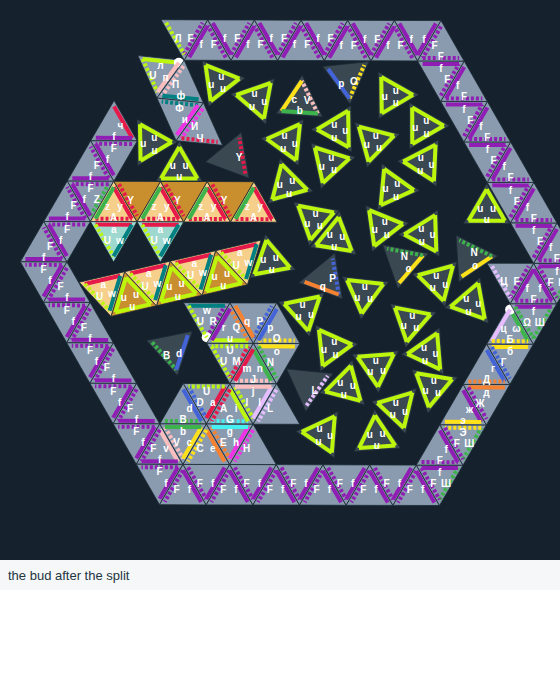
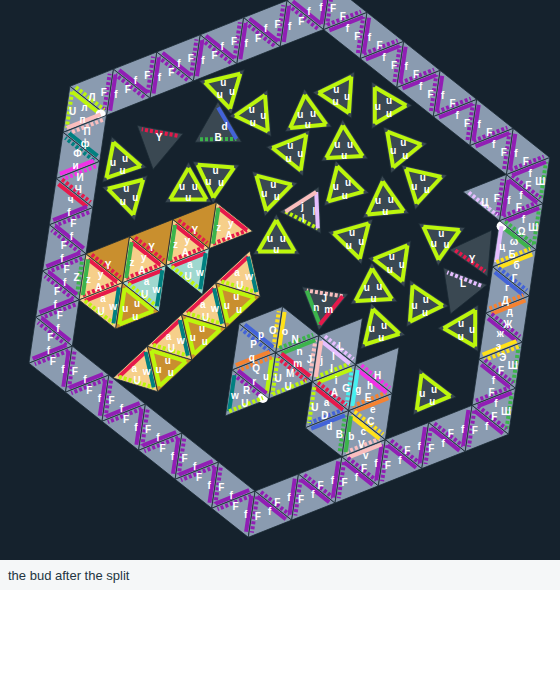
Records: capability checks (24 of 24 pass), a bud that lives alone 4 of 4, cells and live back to 4 of 4; picture; NEXT handoff and pitfalls (food in a kit site, narrow kit sites, supply races); AGENTS mentions tri/check.js
Claude-Session: https://claude.ai/code/session_01Ya3Dn6a9pNsW3KfKc7bRKZ

diff --git a/tri/check.js b/tri/check.js
@@ -2,7 +2,7 @@
 // Capability checks: one line per capability that ROADMAP's module table marks as working (plus partial ones, which
 // report but do not fail). Each check runs an existing demo (tri/demos.js, pictures off) on fixed seeds and reads the
 // demo's own last report line; a capability claimed "N of 4 worlds" needs that many seeds to pass.
-//   node tri/check.js [name ...]     (names: the `id` column; default all; at most 4 processes; about 7 minutes)
+//   node tri/check.js [name ...]     (names: the `id` column; default all; at most 4 processes; about 8 minutes)
 // Exit code 1 if a working capability fails.
 const {spawn}=require('child_process'),path=require('path');
 const num=(L,re)=>{const m=L.match(re);return m?+m[1]:NaN;};

diff --git a/docs/NEXT.md b/docs/NEXT.md
@@ -1,37 +1,25 @@
 # Next instance: start here
 
-## Current slice (autorun 20261001-2006-plywood-harden, 2026-10-01)
-- **Goal:** a capability check (`tri/check.js`) that guards every working module of ROADMAP in one command, and the
-  `split o` pocket stall diagnosed (and fixed if a kit/glue/supply fix exists), so the offspring that lives alone is
-  built on a verified base.
-- **Acceptance:** (1) `node tri/check.js` prints one PASS/FAIL line per working capability (ROADMAP module table),
-  pass conditions read from the world, all pass, wall time about 10 minutes or less with at most 4 processes;
-  (2) `node tri/demos.js split k 200000 runs/sjk o` with an end-of-run report of missing pocket kit types: the stall in
-  seeds 2 and 3 explained, and `split o` at 3 of 4 worlds or better, or the cause recorded with the next fix.
-- **Stop boundary:** no core changes, no new capabilities (no grown bud pair, no programmable synthesis). Budget:
-  about 3 `split o` batches of 4 worlds and one check run per fix.
-- **Approach:** check.js spawns the existing demos (one source of truth for setups) with pictures off (`TRI_NOPIC=1`;
-  every picture starts a Chromium) and reads each demo's own report lines; a pass condition per capability. A
-  separate copy of each world's setup in check.js was rejected (two places to keep in step).
+State on 2026-10-01 (after autorun run 20261001-2006, harden). Read AGENTS.md first (rules of work), then this file.
 
-State on 2026-10-01 (after autorun run 20261001-1806). Read AGENTS.md first (rules of work), then this file.
-
-**Handoff status (autorun run 20261001-1806).** Working tree clean; everything committed on branch
-`claude/autorun-20261001-1806` and merged into `main`. No simulations running. `node tri/test.js`: 20 tests pass. Runs
-live in `runs/` (not committed); regenerate with the commands below.
-**Done this run:** the `split o` batch with the lock-signal deafness rule (sim.js `_deaf`), then one retune (3 kit
-parts per organelle type, was 2). Result: 2 of 4 worlds run the whole chain (split, both doors shut, 42-47 imports, 16
-casts, a new `aaaa` copy in the bud); see INNOVATIONS (newest entry) and `docs/pictures/split_alone.png`. The cap and
-genome variants still work. A batch takes about 2 minutes per world here (not 1.5 h).
-**Open problem:** in the other 2 worlds (seeds 2 and 3) the bud's pocket stops at 14-15 of 16 cells with the doorway
-open, so it never splits; 3 parts per type did not fix it, so it is probably not supply. Not yet diagnosed: TRI_RESUME
-does not work for `split` (the demo re-places the prepared parts and the food after `createWorld` has loaded the
-saved state, so the resumed world is scrambled). **Exact next step:** add an end-of-run report to demo `split` (extra
-`o`) listing each kit type missing from the bud's pocket and where its copies are (bonded in D/P, free in D/P/out),
-rerun seeds 2 and 3 (`node tri/demos.js split 2 200000 runs/sj2 o`), look at the pocket zoom and decide: an enclosed
-site (a design fix in the organelle kit), a part stuck on a wrong partner (glue fix), or parts that cannot reach D.
-The demo's `outside=` count (flood fill on a 0.25 grid) can leak through wall
-gaps between sample points: treat it as rough.
+**Handoff status (autorun run 20261001-2006).** Working tree clean; everything committed on branch
+`claude/autorun-20261001-2006` and merged into `main`. No simulations running. `node tri/test.js`: 20 tests pass;
+`node tri/check.js`: 24 of 24 checks pass in 467 s (4 processes). No current slice: the next run starts a new one.
+**Done this run (slice: capability checks and the `split o` stall; acceptance met):**
+- `tri/check.js`: one PASS/FAIL line per working capability of ROADMAP (24 checks with two controls; multi-world
+  claims run seeds 1-4 and need 3). It spawns the existing demos with `TRI_NOPIC=1` (no pictures) and reads each
+  demo's last report line, so setups live only in demos.js. Add a check for every new working capability.
+- `split o` (a bud that lives alone): 4 of 4 worlds (was 2 of 4). An end-of-run report lists missing pocket cells and
+  where their copies are. Causes found: a yolk blank `uuu` stuck in the last caster site (fix: no `uuu` inside the
+  parent; the bud imports them after the split), then a narrow site (a kit cell with a side on the bud's wall; fix:
+  `budPair` picks the organelle placement with the fewest wall-touching kit cells, after kit risk).
+- The first check run found two older capabilities below their record: `cells` 2 of 4 (the founder's first dock lost
+  the race with the membrane root: now 24 dockers per type, 4 roots: 4 of 4) and `live` 2 of 4 (leftover kit parts
+  trapped in the ring jammed the door: now 2 kit copies per cell, 150000 steps: 4 of 4). Details: INNOVATIONS (newest).
+**Exact next step:** a `build` slice toward growing the bud pair instead of preparing it (Do next, item 2), or the
+explore run on programmable synthesis (item 3) when the rotation gives an explore run. Run `node tri/check.js` before
+merging any rule, physics or shared-structure change.
+The `split` demo's `outside=` count (flood fill on a 0.25 grid) can leak through wall gaps: treat it as rough.
 
 ## Where things stand
 - Built and working in demos (details and pictures: docs/INNOVATIONS.md): typed chain copying (zip), casting, lid
@@ -61,14 +49,15 @@ node tri/demos.js copy 1 10000 runs                # typed copying (zip)
 node tri/demos.js lid 1 4000 runs                  # lid pocket casting
 node tri/demos.js factory 1 30000 runs Aa          # lid pockets feed a replicator (none = control)
 node tri/demos.js grow 1 16000 runs 12             # a lid pocket kit grows from a seed and casts
-node tri/demos.js ring 1 30000 runs 3              # ring membrane from a periodic kit, closes
+node tri/check.js                                  # capability checks: one PASS/FAIL line per working capability (~8 min)
+node tri/demos.js ring 1 60000 runs 3              # ring membrane from a periodic kit, closes (7k-45k steps)
 node tri/demos.js gate 1 10000 runs 12             # gated ring (swept 3-cell door)
 node tri/demos.js import 1 20000 runs              # selective import (revolving door)
 node tri/demos.js cell 2 40000 runs                # protocell: import + factory + copying inside a membrane
 node tri/demos.js bud 3 50000 runs                 # budding: daughter rings detach when complete
 node tri/demos.js wrap 2 100000 runs               # a chain grows a membrane around itself
 node tri/demos.js cells 1 100000 runs 36           # heritable cells: copies wrap themselves
-node tri/demos.js live 1 90000 runs 6x3            # a grown membrane with its own import door
+node tri/demos.js live 1 150000 runs 6x2           # a grown membrane with its own import door
 node tri/demos.js grown 2 200000 runs              # chain grows membrane + door and a casting pocket (slow)
 node tri/demos.js heir 1 30000 runs                # chains grow pockets from their end seed; copies regrow them
 node tri/demos.js cycle 1 120000 runs              # heritable factory cycle (two kits; see INNOVATIONS)
@@ -76,7 +65,7 @@ node tri/demos.js stamp 1 60000 runs               # stamp pockets make a ring's
 node tri/demos.js grow 1 20000 runs 4s             # a stamp pocket grows from its kit and casts A@-b@
 node tri/demos.js split 1 30000 runs               # bud fed through a doorway grows a cap, then splits off sealed
 node tri/demos.js split 1 60000 runs g             # the bud catches a genome copy (anchor), then splits off
-node tri/demos.js split 1 150000 runs o            # + the bud grows its own docker pocket from parts the parent holds
+node tri/demos.js split 1 200000 runs o            # + the bud grows its own pocket, splits, imports, copies its genome
 ```
 Older: `pocket`, `conveyor`, `gate`, `airlock`, `energy`, `arms`. Pictures go to `runs/NAME.png` with saved states.
 Long runs: `TRI_RESUME=runs/x/NAME_tNNN.json.gz node tri/demos.js NAME seed steps outdir` continues a demo world from a
@@ -86,11 +75,9 @@ saved state (same seed and extra; event counters restart). `TRI_PARAMS='{...}'` 
 The BIG goal's sentence now has a prepared, working skeleton: the parent **feeds** its bud through a doorway, the bud
 **catches a genome copy** and grows its content, and it **splits off** sealed (demo `split`). What is still prepared
 or missing, in order:
-1. **A bud that lives alone** (`split 1 200000 runs o`): the bud grows its own stamp pocket (casting `aU.w` from blanks
-   `uuu`, which are also its fills) from kit parts held as food in the parent, catches a copy, splits off, imports
-   `uuu` through its own door (interlocked with its closing door) and makes a whole copy of its genome. Works in 2 of 4
-   worlds (autorun 20261001-1806, 3 kit parts per type); in the other 2 the pocket stalls at 14-15/16 (see the handoff
-   status for the diagnosis step). Earlier jams of the closing door on a free copy did not recur this batch.
+1. ~~**A bud that lives alone**~~ — works prepared, 4 of 4 worlds (`split 1 200000 runs o`, autorun 20261001-2006):
+   the bud grows its own stamp pocket (casting `aU.w` from blanks `uuu`, also its fills) from kit parts held as food in
+   the parent, catches a copy, splits off, imports `uuu` through its own door and makes a whole copy of its genome.
 2. **Grow the bud pair instead of preparing it.** Ideas: grow D as a kit from a seed on the parent's outer wall
    (kits grow any prepared lattice structure). Problems to solve: (a) a hinge bonds only when its sides are flush, so
    a panel grown in the open position needs its hinge partner to be the cell beside it there (the doorstop) with the
@@ -113,6 +100,14 @@ or missing, in order:
 5. Speed: physics is ~85% of step time, lone blocks dominate (`_single`); a big world is ~500 steps/s.
 
 ## Pitfalls learned
+- **Food in a kit site.** A blank whose glue complements casters' close-only instruction sides closes into an empty
+  caster site of a growing pocket (two `U.` sides facing it) and blocks it for good. Keep a pocket's target blanks away
+  until the pocket is complete (the bud gets `uuu` only through its own door, after the split).
+- **Narrow kit sites.** A kit cell with a side on a wall can be entered only through one side once its parent is
+  there; it stalled 2 of 4 bud pockets. `budPair` avoids such placements; check new layouts for them (the risk count
+  in `structures.kit` does not see walls).
+- **Supply races decide reliability.** The founder's first dock races the membrane root (cells); leftover kit parts
+  trapped in a closed ring jam its door (live). Supply ratios are design parameters: check them on 4 worlds.
 - **TRI_RESUME and `split`**: the demo places its prepared parts and food after `createWorld` has loaded the saved
   state, so a resumed `split` world is scrambled (and the genome variant may throw "prepared parts overlap"). Rerun from
   t=0 instead (a 200000-step world takes about 2 minutes).

diff --git a/ROADMAP.md b/ROADMAP.md
@@ -17,17 +17,19 @@ splits it off.** Build every mechanism in isolation, then combine them.
 | Import: bring raw material through the membrane (pump) | transporters | works: a revolving door carries blanks in selectively | structures.importRing, demo import |
 | Heritable machines: parts grown from the chain's seeds | ribozymes, then translation | works: a chain grows a lid pocket from its end seed, copies regrow it; the two-pocket cycle (each generation casts the next one's dockers) reaches a third generation | structures.kit, demos grow, heir, cycle; backlog 1 |
 | Encapsulation: a chain grows a membrane around itself | genome-directed compartment | works (seed on the chain end, ring kit seedIn) | demo wrap |
-| Heritable cells: copies carry the membrane seed and wrap themselves | cell lineage | works (founder and copy each end in their own cell) | demo cells |
+| Heritable cells: copies carry the membrane seed and wrap themselves | cell lineage | works (4 of 4 worlds, 4 cells each; 24 dockers per type, 4 roots) | demo cells |
 | Membrane growth | membrane growth | a ring grows from a periodic kit (2R-1 types) and closes (8-13k steps) | structures.ringKit, demo ring; backlog 5 |
-| Grown import door: the genome's membrane kit grows its own door | transporter made by the cell | works (3 of 3 worlds, R=6: closes, lets go of the chain, imports blanks) | structures.doorRingKit, demo live |
+| Grown import door: the genome's membrane kit grows its own door | transporter made by the cell | works (4 of 4 worlds, R=6, 2 kit copies per cell, 150000 steps: closes, lets go of the chain, imports 14-16 blanks) | structures.doorRingKit, demo live |
 | Protocell: membrane + import + factory + copying inside | cell | works prepared (demo cell) and grown from the genome (4 of 4 worlds: pocket and membrane with door grow from the chain's seeds, import, cast, copy inside) | demos cell, grown |
 | Budding: second compartment with genome copy and parts | daughter cell | empty daughter rings bud off a parent (open signal, `&` release); with contents not yet | demo bud; backlog 6 |
 | Birth: a grown cell makes copies that leave through a pore and start their own cells | reproduction | partial: copies leave and one began its own cell (1 of 4 worlds, 2.6M steps); not yet a complete offspring cell | structures.cellKit, demo birth |
 | Feeding the bud through a shared wall gate | maternal supply | works prepared: parent and bud share a wall with a doorway through both; the parent's stamp pocket feeds the bud (parts, blanks, dockers) | structures.budPair, demo split |
 | Division: cut the shared wall when the bud is complete | cytokinesis | works prepared (4 of 4 worlds): when the bud's growth front closes (cap complete, or its anchor has caught a genome copy) every `&` lets go, both doors swing shut and lock, the bud separates | demo split |
-| Offspring that lives alone | independent daughter cell | partial: the bud grows its own pocket from parts the parent holds, splits off, imports blanks through its own door and makes a whole genome copy (2 of 4 worlds; in 2 its pocket stalls at 14-15 of 16 cells) | demo split o |
+| Offspring that lives alone | independent daughter cell | works prepared (4 of 4 worlds): the bud grows its own pocket from parts the parent holds, splits off, imports blanks through its own door and makes a whole genome copy | demo split o |
 | Segregation: the bud catches a genome copy | chromosome segregation | works: anchor side `\|` catches a copy's seed (the strand placed flush as one body); the parent keeps its founder by its own anchor | sim.js anchor, demo split g |
 | Proofreading / scanner against stray cast types | proofreading, selectivity | idea | backlog 4 |
+
+Every row marked works is guarded by `node tri/check.js` (one line per capability, about 9 minutes).
 
 ## Backlog (top first)
 
@@ -45,8 +47,8 @@ splits it off.** Build every mechanism in isolation, then combine them.
    doors admits only triangles matching on all three sides; or cooperative binding (a part stays bound only once a
    second side matches). Needed once casting makes stray types.
 5. **Membrane growth.** A ring that inserts wall cells (a growth site with a seed glue, wall kit types), staying closed.
-6. **Bud and feed** — works prepared (demo split, 2026-10-01). Next: grow the pair (a bud ring grown from a seed on
-   the parent's wall around its doorway), and a bud that lives alone (its own docker pocket: `split ... o`).
+6. **Bud and feed** — works prepared (demo split, 2026-10-01), including a bud that lives alone (`split ... o`, 4 of 4).
+   Next: grow the pair (a bud ring grown from a seed on the parent's wall around its doorway).
 7. **Division** — works prepared (completion signal cuts the shared wall; doors shut and lock).
 8. ~~Pocket swing stall~~ — solved by the lid pocket (2026-10-01).
 

diff --git a/docs/INNOVATIONS.md b/docs/INNOVATIONS.md
@@ -6,6 +6,38 @@ made with the pre-port engine (experiments/, history before commit `cac79c9`, sa
 reproduces each demo with the current engine (`tri/`). Results are from one or a few worlds; they show mechanisms,
 not statistics.
 
+## 2026-10-01 (autorun run 20261001-2006, harden)
+
+- **Capability checks (`tri/check.js`)** — works. One command runs every capability ROADMAP marks as working (24 checks:
+  each an existing demo on fixed seeds with pictures off, `TRI_NOPIC=1`) and reads a pass condition from the demo's
+  own last report line (copies made, casts, ring closed, blanks imported, bud split with doors shut, ...), with
+  controls (factory without pockets, energy in the dark). Capabilities claimed for several worlds run 4 seeds and need
+  3. At most 4 processes, longest jobs first; about 8-9 minutes on a 4-core container (`grown` alone takes 5.5 min).
+  First run: 22 of 24 passed; `cells` (2 of 4) and `live` (2 of 4) had fallen below their recorded 3 of 3, fixed below.
+  Command: `node tri/check.js` (or `node tri/check.js ring live` for some).
+- **A bud that lives alone** — works (4 of 4 worlds, prepared pair; was 2 of 4). An end-of-run report (demo `split`,
+  extra `o`) lists each kit cell missing from the bud's pocket, its tree parent, its kit neighbours and where the
+  copies of its type are. It found two causes, neither supply: (1) a yolk blank `uuu` that had come in through the
+  doorway closed onto two casters' close-only instruction sides `U.` in the pocket's last caster site (cell 1) and
+  blocked it for good (seeds 2 and 3); the bud needs `uuu` only after the split, so none starts inside P any more (all
+  40 start outside and come in through the bud's own door). (2) Then cell 13 stalled in seeds 3 and 4: its site had a
+  side on the bud's wall, so once its parent was there a part could enter only through one side (a narrow site);
+  `budPair` now prefers, after kit risk, the organelle placement with the fewest kit cells touching the wall (one with
+  none exists, same kit). Result: in all 4 worlds the pocket completes (16/16), the pair splits (t=40000-153000), both
+  doors shut, the bud imports 33-50 blanks through its own door, casts its dockers and makes a whole `aaaa` copy of its
+  genome (two in world 2). Command: `for k in 1 2 3 4; do node tri/demos.js split $k 200000 runs/sl$k o > runs/sl$k.log
+  & done` (about 3 min per world). Picture (world 3 after the split: its pocket, imported `uuu`, the anchored `AAAA`
+  and its copy `aaaa`): `docs/pictures/split_alone.png`. Enables: the full BIG-goal sentence on a prepared pair; next,
+  grow the pair instead of preparing it.
+- **Heritable cells, reliability** — 4 of 4 worlds (was 2 of 4 on the current engine). The founder's first docker races
+  the membrane root for its high end; a root there first commits the founder to wrapping before any copy (docks=0).
+  Supply changed from 12 dockers per face type and 8 roots to 24 and 4 (one root per cell): every world makes 4 cells
+  (47-48 docks per world). `node tri/demos.js cells 1 100000 runs 36`.
+- **Grown import door, reliability** — 4 of 4 worlds within 150000 steps (was 2 of 4). With 3 kit copies per cell,
+  leftover kit parts trapped inside the closed ring lay in the door's sweep and jammed the panel half open (50000
+  stalls, one import). With 2 per cell the ring closes later (54000-57000; one world about 120000) and imports 14-15
+  blanks. `node tri/demos.js live 1 150000 runs 6x2`.
+
 ## 2026-10-01 (autorun run 20261001-1806)
 
 - **A bud that lives alone: split, import, cast and a whole genome copy made inside the sealed bud** — partial: 2 of
@@ -19,8 +51,8 @@ not statistics.
   split at 9000) and `split 1 60000 runs g` (split at 24000) still work. Command:
   `for k in 1 2 3 4; do node tri/demos.js split $k 200000 runs/sj$k o > runs/sj$k.log & done` (about 2 min per
   world on a 4-core container). Picture (world 4 after the split: pocket, imported `uuu`, anchored `AAAA` and its
-  copy `aaaa`): `docs/pictures/split_alone.png`. Status: partial (2 of 4); next, find why the pocket stalls at
-  14-15/16 (see docs/NEXT.md).
+  copy `aaaa`): `docs/pictures/split_alone.png` (since replaced by the 4-of-4 run's picture). Status: partial (2 of
+  4); fixed in run 20261001-2006 (above).
 
 ## 2026-10-01 (fourth session)
 

diff --git a/AGENTS.md b/AGENTS.md
@@ -16,7 +16,7 @@ typed-triangle simulation; all earlier simulations (letter chemistry, half-cells
    with pictures. [docs/IDEAS.md](docs/IDEAS.md): the user's ideas and design lessons.
 4. Code: `tri/physics.js` (motion), `tri/sim.js` (chemistry), `tri/world.js` (worlds, census), `tri/structures.js`
    (designed machines and kits), `tri/render.js` (pictures), `tri/demos.js` (one demo per capability),
-   `tri/test.js` (fast checks).
+   `tri/test.js` (fast checks), `tri/check.js` (capability checks: one demo per working capability).
 
 ## How we work: a small core, built on in slices
 
@@ -28,7 +28,7 @@ typed-triangle simulation; all earlier simulations (letter chemistry, half-cells
   any code: (1) the capability and why the goal needs it; (2) at least two designs with the existing core and why
   they fail; (3) the locality check: exactly what the triangle reads and from where; (4) which other structures can
   use it; (5) what it replaces or makes removable. Prefer generalizing or removing a rule over adding one. After a
-  core change, the capability checks (`node tri/check.js`, once it exists) must still pass.
+  core change, the capability checks (`node tri/check.js`, about 9 minutes, 4 processes) must still pass.
 - **Slices.** Before any code, write under "Current slice" at the top of docs/NEXT.md: **goal** (one sentence: what
   will exist or be known, and how it moves the organism forward), **acceptance** (a command and the observable
   result, with a number, e.g. "3 of 4 worlds"), **stop boundary** (what is out of scope, and a budget of demo runs
@@ -85,7 +85,8 @@ typed-triangle simulation; all earlier simulations (letter chemistry, half-cells
 
 - Read `git status` first; preserve user changes. Run output goes to `runs/` (ignored); keep only chosen pictures in
   `docs/pictures/`.
-- Run `node tri/test.js` (and `node tri/check.js` once it exists) before committing rule or physics changes.
+- Run `node tri/test.js` before committing; run `node tri/check.js` (one PASS/FAIL line per working capability) before
+  merging rule, physics or shared-structure changes. A new working capability gets a check there.
 - Commit often with descriptive messages; standing approval to push the working branch, merge into `main` and push
   `main`. At most four simulation processes at once. Container restarts happen: commit results early.
 - **Always ready for handoff** (user, 2026-10-01). After every checkpoint reached or any stoppage, leave the work so
